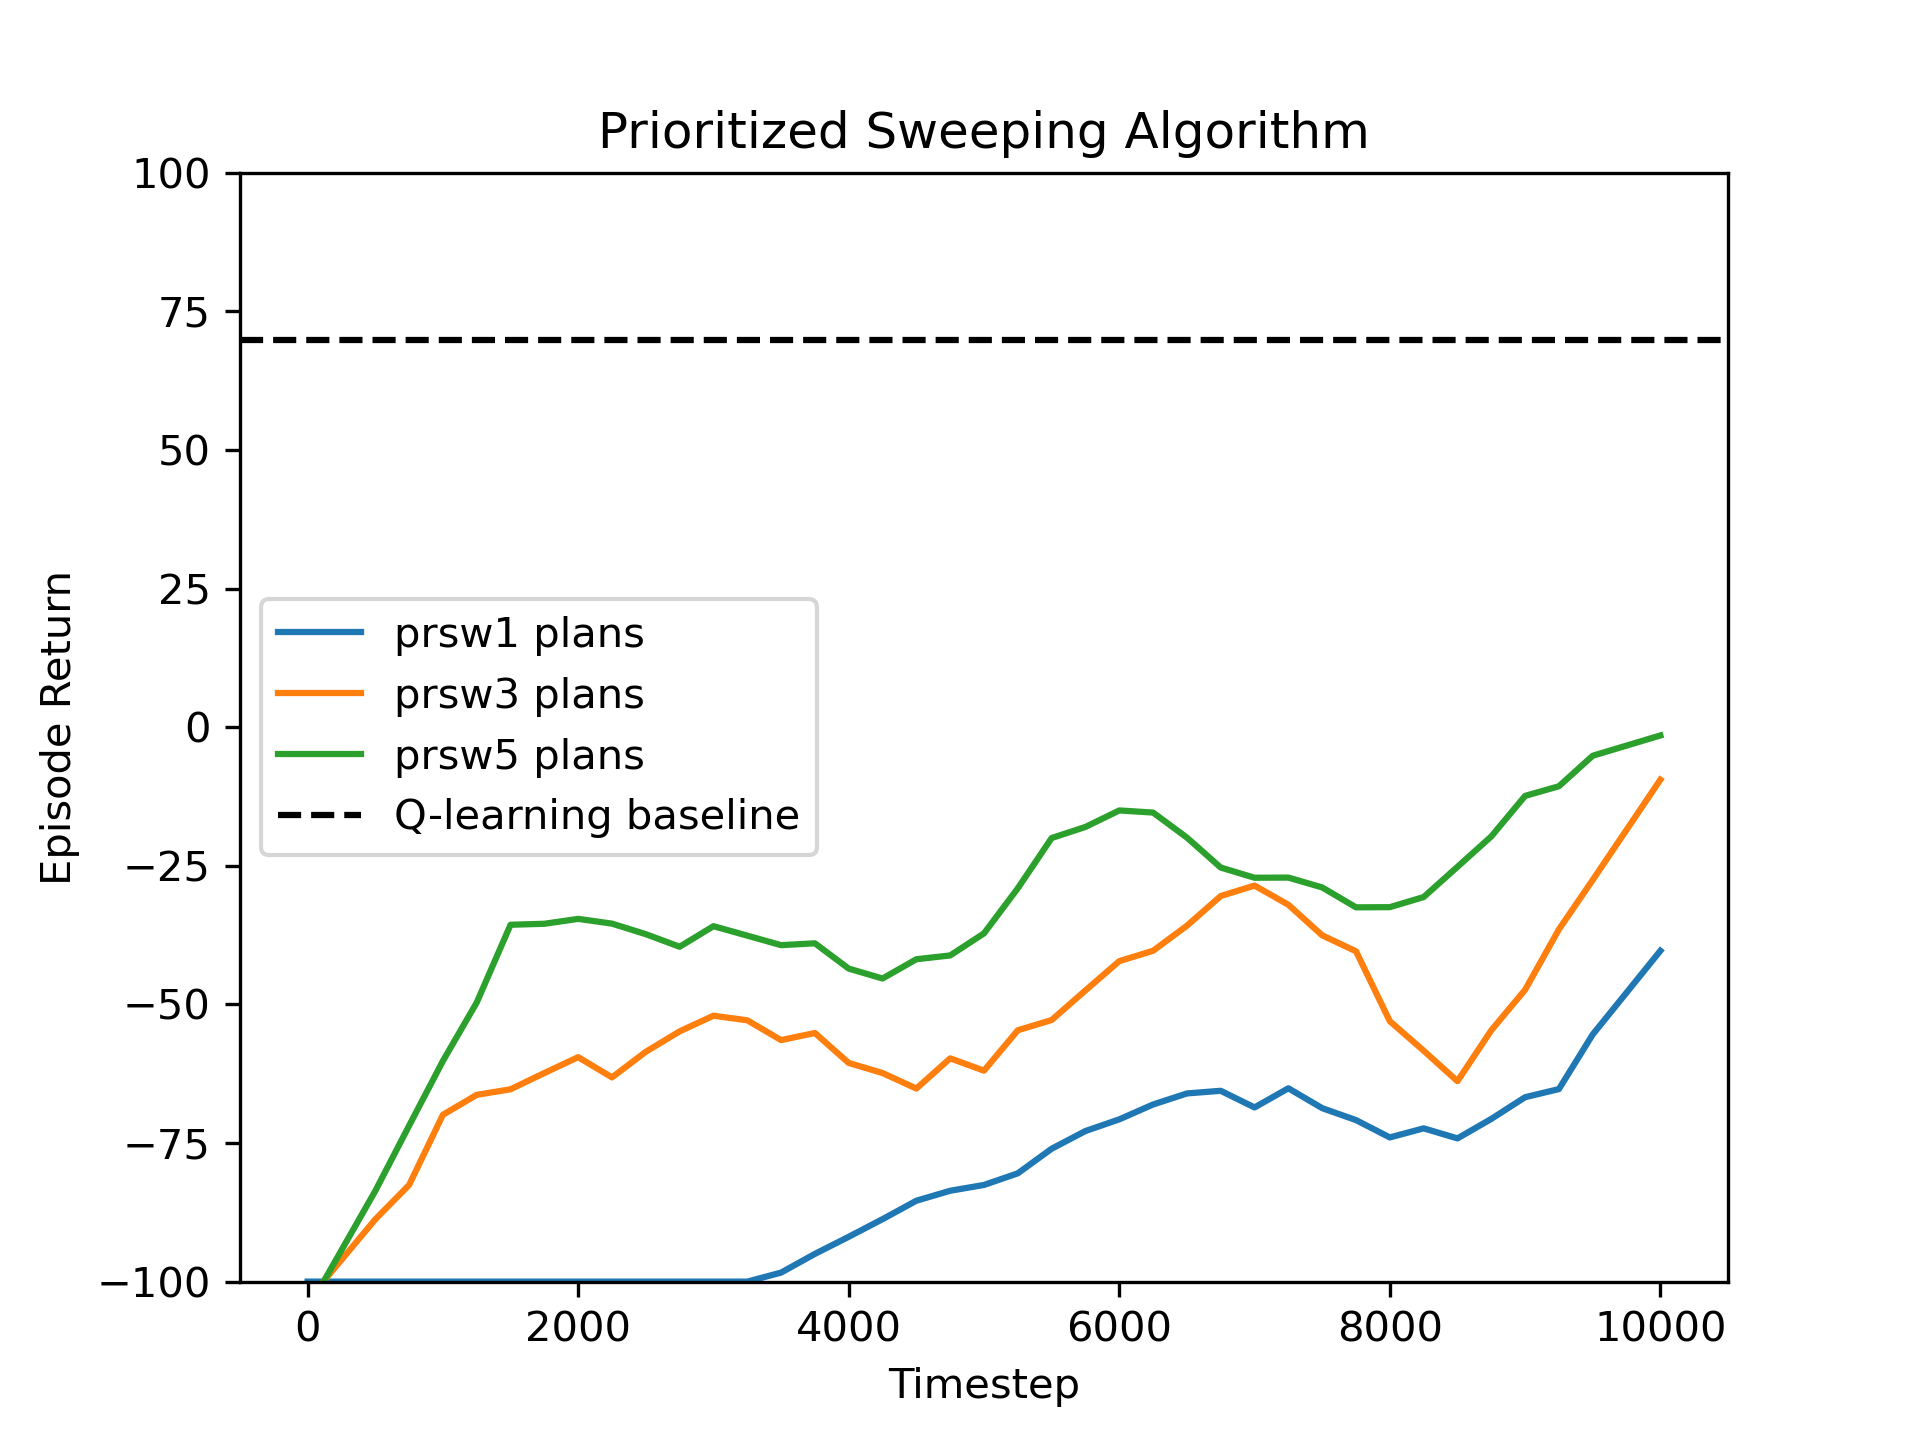
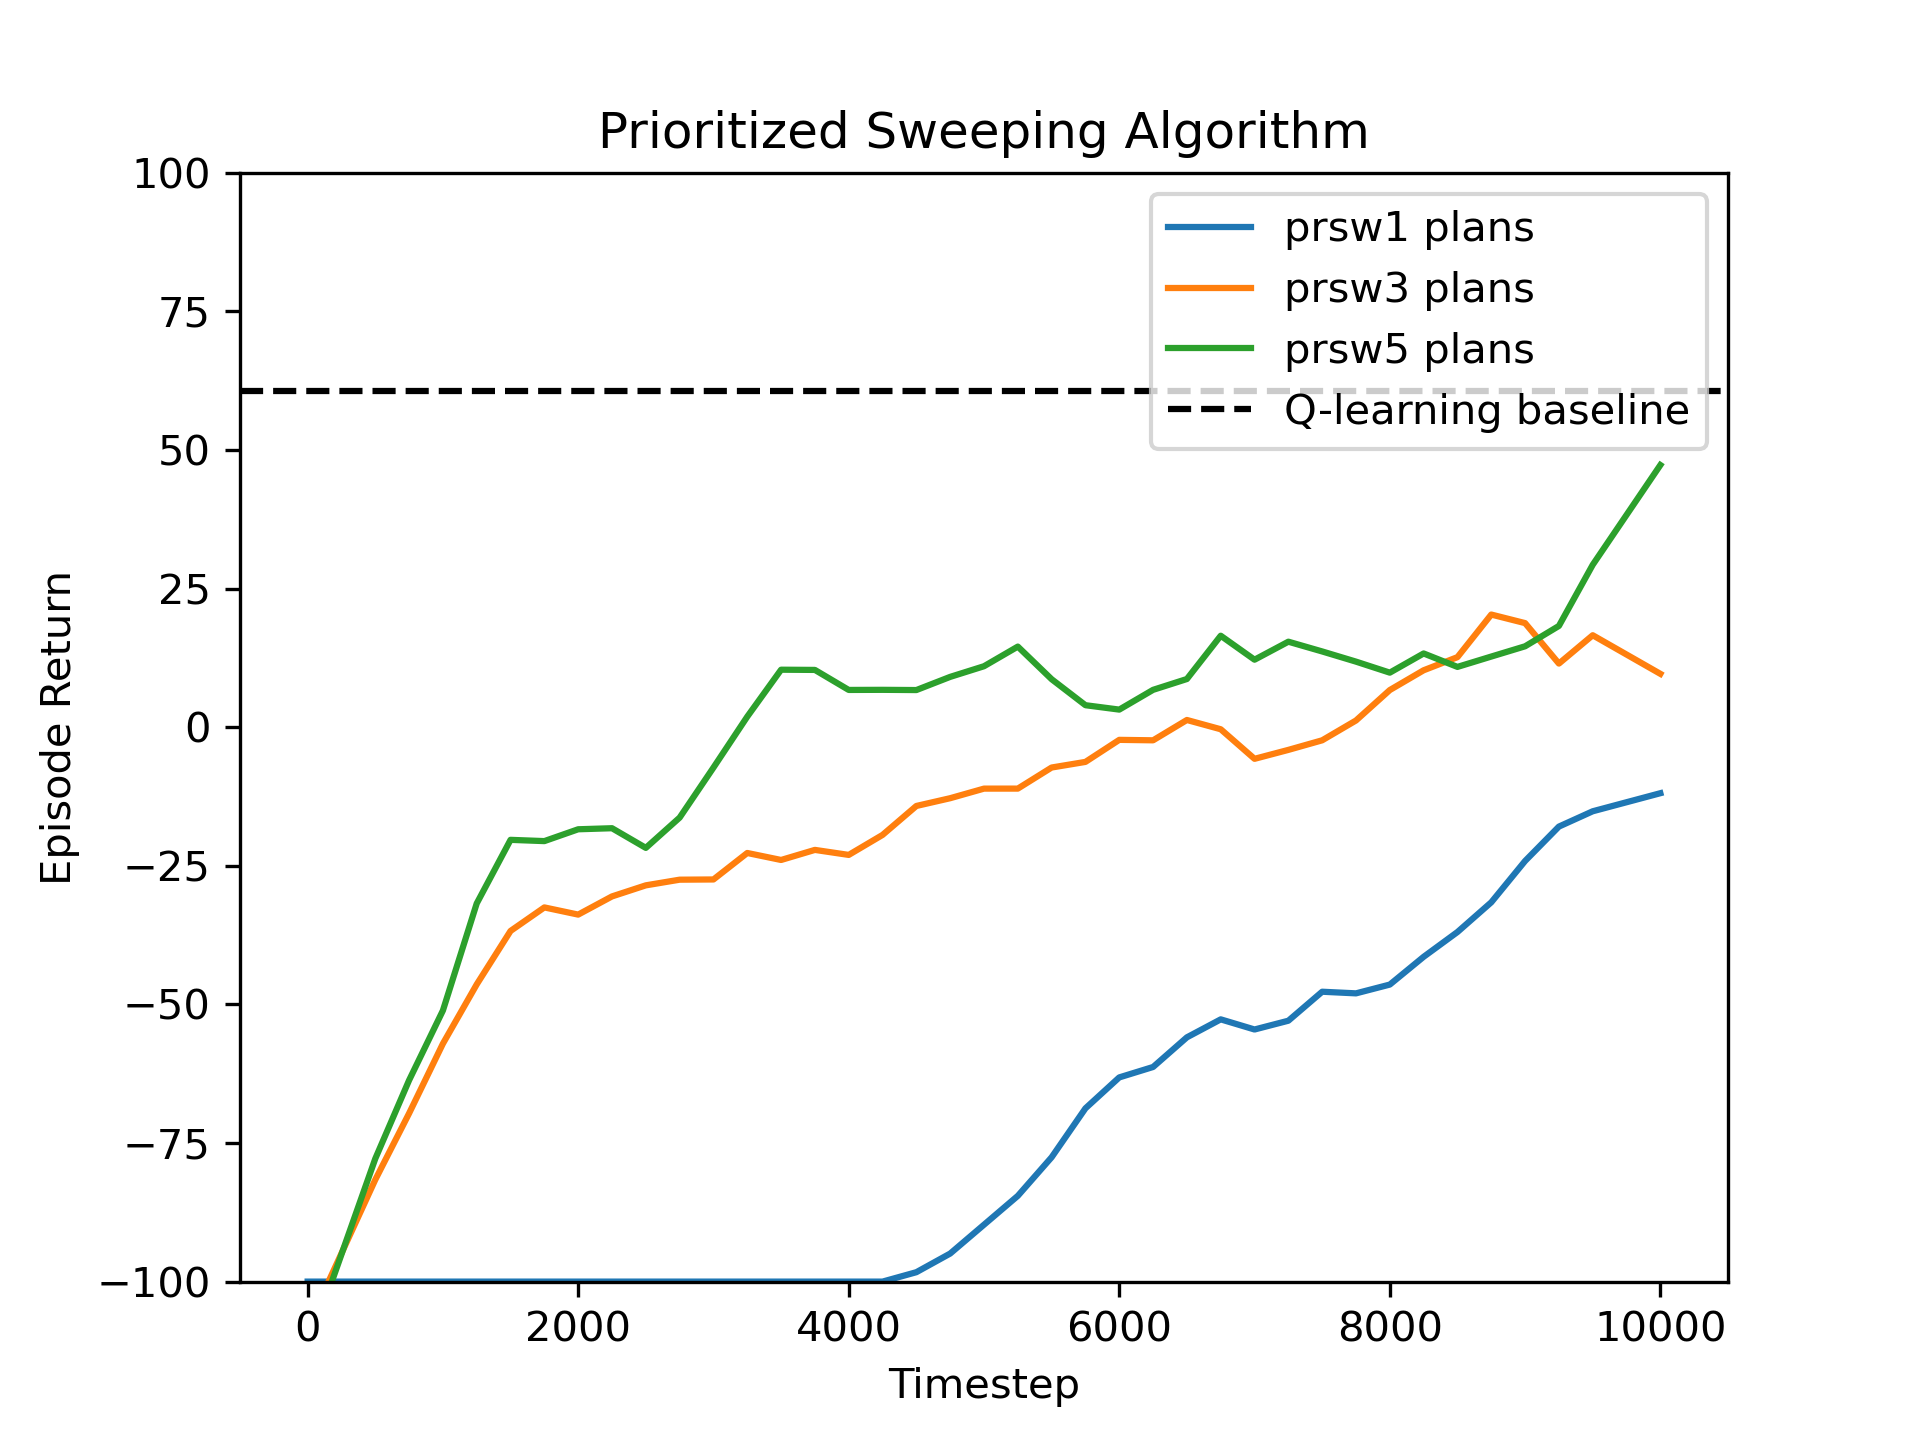
Small change in run_repetitions(), new plots

diff --git a/MBRLExperiment.py b/MBRLExperiment.py
@@ -26,10 +26,12 @@ def experiment():
 
     def create_plot(algorithm, algorithm_prefix):
         plot = LearningCurvePlot(title=f'{algorithm_prefix} Algorithm')
+
         for n_planning_updates in n_planning_updatess:
             mean_returns, _ = run_repetitions(algorithm, n_repetitions, n_timesteps, eval_interval, wind_proportion, n_planning_updates, learning_rate, epsilon, gamma)
             smooth_plot = smooth(mean_returns, window=5)
             plot.add_curve(np.arange(0, n_timesteps, eval_interval), smooth_plot, label=f'{algorithm}{n_planning_updates} plans')
+        
         mean_returns_qlearning, _ = run_repetitions("dyna", n_repetitions, n_timesteps, eval_interval, wind_proportion, 0, learning_rate, epsilon, gamma)
         baseline_value = mean_returns_qlearning[-1]
         plot.add_hline(baseline_value, label='Q-learning baseline')
@@ -42,12 +44,14 @@ def experiment():
 
     def create_comparison_plot(environment, wind_proportion, n_planning_dyna, n_planning_prsw):
         plot = LearningCurvePlot(title=f'{environment} Comparison')
+
         mean_returns_dyna, mean_time_dyna = run_repetitions('dyna', n_repetitions, n_timesteps, eval_interval, wind_proportion, n_planning_dyna, learning_rate, epsilon, gamma)
         mean_returns_prsw, mean_time_prsw = run_repetitions('prsw', n_repetitions, n_timesteps, eval_interval, wind_proportion, n_planning_prsw, learning_rate, epsilon, gamma)
         smooth_plot_dyna = smooth(mean_returns_dyna, window=5)
         smooth_plot_prsw = smooth(mean_returns_prsw, window=5)
         plot.add_curve(np.arange(0, n_timesteps, eval_interval), smooth_plot_dyna, label='dyna5 plans')
         plot.add_curve(np.arange(0, n_timesteps, eval_interval), smooth_plot_prsw, label='prsw5 plans')
+        
         mean_returns_qlearning, mean_time_qlearning = run_repetitions("dyna", n_repetitions, n_timesteps, eval_interval, wind_proportion, 0, learning_rate, epsilon, gamma)
         baseline_value_dyna = mean_returns_qlearning[-1]
         plot.add_hline(baseline_value_dyna, label='Q-learning baseline')
@@ -57,6 +61,7 @@ def experiment():
 
     mean_time_dyna1, mean_time_prsw1, mean_time_qlearning1 = create_comparison_plot('Deterministic', 1.0, 5, 5)
     mean_time_dyna2, mean_time_prsw2, mean_time_qlearning2 = create_comparison_plot('Stochastic', 0.9, 3, 5)
+    
     df = pd.DataFrame(
         [[mean_time_dyna1, mean_time_prsw1, mean_time_qlearning1], [mean_time_dyna2, mean_time_prsw2, mean_time_qlearning2]],
         index=['Stochastic', 'Deterministic'],
@@ -67,26 +72,29 @@ def experiment():
 def run_repetitions(agent_type, n_repetitions, n_timesteps, eval_interval, wind_proportion, n_planning_updates, learning_rate=0.1, epsilon=0.1, gamma=1.0):
     total_returns, total_times = [], []
     env = WindyGridworld(wind_proportion=wind_proportion)
+
     for _ in range(n_repetitions):
         start_time = time.time()
         if agent_type == 'dyna':
             agent = DynaAgent(n_states=env.n_states, n_actions=env.n_actions, learning_rate=learning_rate, gamma=gamma)
         elif agent_type == 'prsw':
             agent = PrioritizedSweepingAgent(n_states=env.n_states, n_actions=env.n_actions, learning_rate=learning_rate, gamma=gamma)
+        
         s = env.reset()
         eval_returns = []
+
         for i in range(n_timesteps):
             a = agent.select_action(s, epsilon)
             s_next, r, done = env.step(a)
             agent.update(s=s, a=a, r=r, done=done, s_next=s_next, n_planning_updates=n_planning_updates)
-            if done:
-                s = env.reset()
-            else:
-                s = s_next
+            s = env.reset() if done else s_next
+
             if i % eval_interval == 0:
-                eval_returns.append(agent.evaluate(env))
+                eval_returns.append(agent.evaluate(WindyGridworld(wind_proportion=wind_proportion)))
+
         total_returns.append(eval_returns)
         total_times.append(time.time() - start_time)
+
     return np.mean(total_returns, axis=0), np.mean(total_times, axis=0)
 
 if __name__ == '__main__':

diff --git a/MBRLAgents.py b/MBRLAgents.py
@@ -11,20 +11,17 @@ from queue import PriorityQueue
 from MBRLEnvironment import WindyGridworld
 
 class DynaAgent:
-
     def __init__(self, n_states, n_actions, learning_rate, gamma):
         self.n_states = n_states
         self.n_actions = n_actions
         self.learning_rate = learning_rate
         self.gamma = gamma
-        # TO DO: Initialize relevant elements
+
         self.Q_sa = np.zeros((n_states, n_actions))
         self.n = np.zeros((n_states, n_actions, n_states))
         self.R_sum = np.zeros((n_states, n_actions, n_states))
         
     def select_action(self, s, epsilon):
-        # TO DO: Change this to e-greedy action selection
-        # a = np.random.randint(0,self.n_actions) # Replace this with correct action selection
         p = np.random.rand()
         if p < epsilon:
             a = np.random.randint(self.n_actions)
@@ -33,7 +30,6 @@ class DynaAgent:
         return a
         
     def update(self,s,a,r,done,s_next,n_planning_updates):
-        # TO DO: Add Dyna update
         self.n[s, a, s_next] += 1
         self.R_sum[s, a, s_next] += r
 
@@ -57,10 +53,8 @@ class DynaAgent:
                 continue
             p_hat = self.n[s_prev, a_prev] / n_total
             s_prime = np.random.choice(self.n_states, p=p_hat)
-
             # Compute r_hat(s_prev, a_prev, s_prime)
             r_hat = self.R_sum[s_prev, a_prev, s_prime] / self.n[s_prev, a_prev, s_prime]
-
             # Q-learning update using simulated model
             self.Q_sa[s_prev, a_prev] += self.learning_rate * (r_hat + self.gamma * np.max(self.Q_sa[s_prime]) - self.Q_sa[s_prev, a_prev])
 
@@ -82,7 +76,6 @@ class DynaAgent:
         return mean_return
 
 class PrioritizedSweepingAgent:
-
     def __init__(self, n_states, n_actions, learning_rate, gamma, priority_cutoff=0.01):
         self.n_states = n_states
         self.n_actions = n_actions
@@ -90,13 +83,12 @@ class PrioritizedSweepingAgent:
         self.gamma = gamma
         self.priority_cutoff = priority_cutoff
         self.queue = PriorityQueue()
-        # TO DO: Initialize relevant elements
+
         self.Q_sa = np.zeros((n_states, n_actions))
         self.n = np.zeros((n_states, n_actions, n_states))
         self.R_sum = np.zeros((n_states, n_actions, n_states))
         
     def select_action(self, s, epsilon):
-        # TO DO: Change this to e-greedy action selection
         p = np.random.rand()
         if p < epsilon:
             a = np.random.randint(self.n_actions)
@@ -105,22 +97,15 @@ class PrioritizedSweepingAgent:
         return a
         
     def update(self,s,a,r,done,s_next,n_planning_updates):
-        
-        # TO DO: Add Prioritized Sweeping code
-        
-        # Helper code to work with the queue
-        # Put (s,a) on the queue with priority p (needs a minus since the queue pops the smallest priority first)
-        # self.queue.put((-p,(s,a))) 
-        # Retrieve the top (s,a) from the queue
-        # _,(s,a) = self.queue.get() # get the top (s,a) for the queue
         self.n[s, a, s_next] += 1
         self.R_sum[s, a, s_next] += r
+
         if done:
             p = abs(r - self.Q_sa[s, a])
         else:
             p = abs(r + self.gamma * np.max(self.Q_sa[s_next]) - self.Q_sa[s,a])
         if p > self.priority_cutoff:
-            self.queue.put((-p,(s,a)))
+            self.queue.put((-p, (s,a)))
 
         for K in range(n_planning_updates):
             if self.queue.empty():
@@ -132,9 +117,7 @@ class PrioritizedSweepingAgent:
                 continue
             p_hat = self.n[s_p, a_p] / n_total
             s_prime = np.random.choice(self.n_states, p=p_hat)
-
             r_hat = self.R_sum[s_p, a_p, s_prime] / self.n[s_p, a_p, s_prime]
-
             self.Q_sa[s_p, a_p] += self.learning_rate * (r_hat + self.gamma * np.max(self.Q_sa[s_prime]) - self.Q_sa[s_p, a_p])
 
             for s_bar, a_bar in np.argwhere(self.n[:, :, s_p] > 0):
